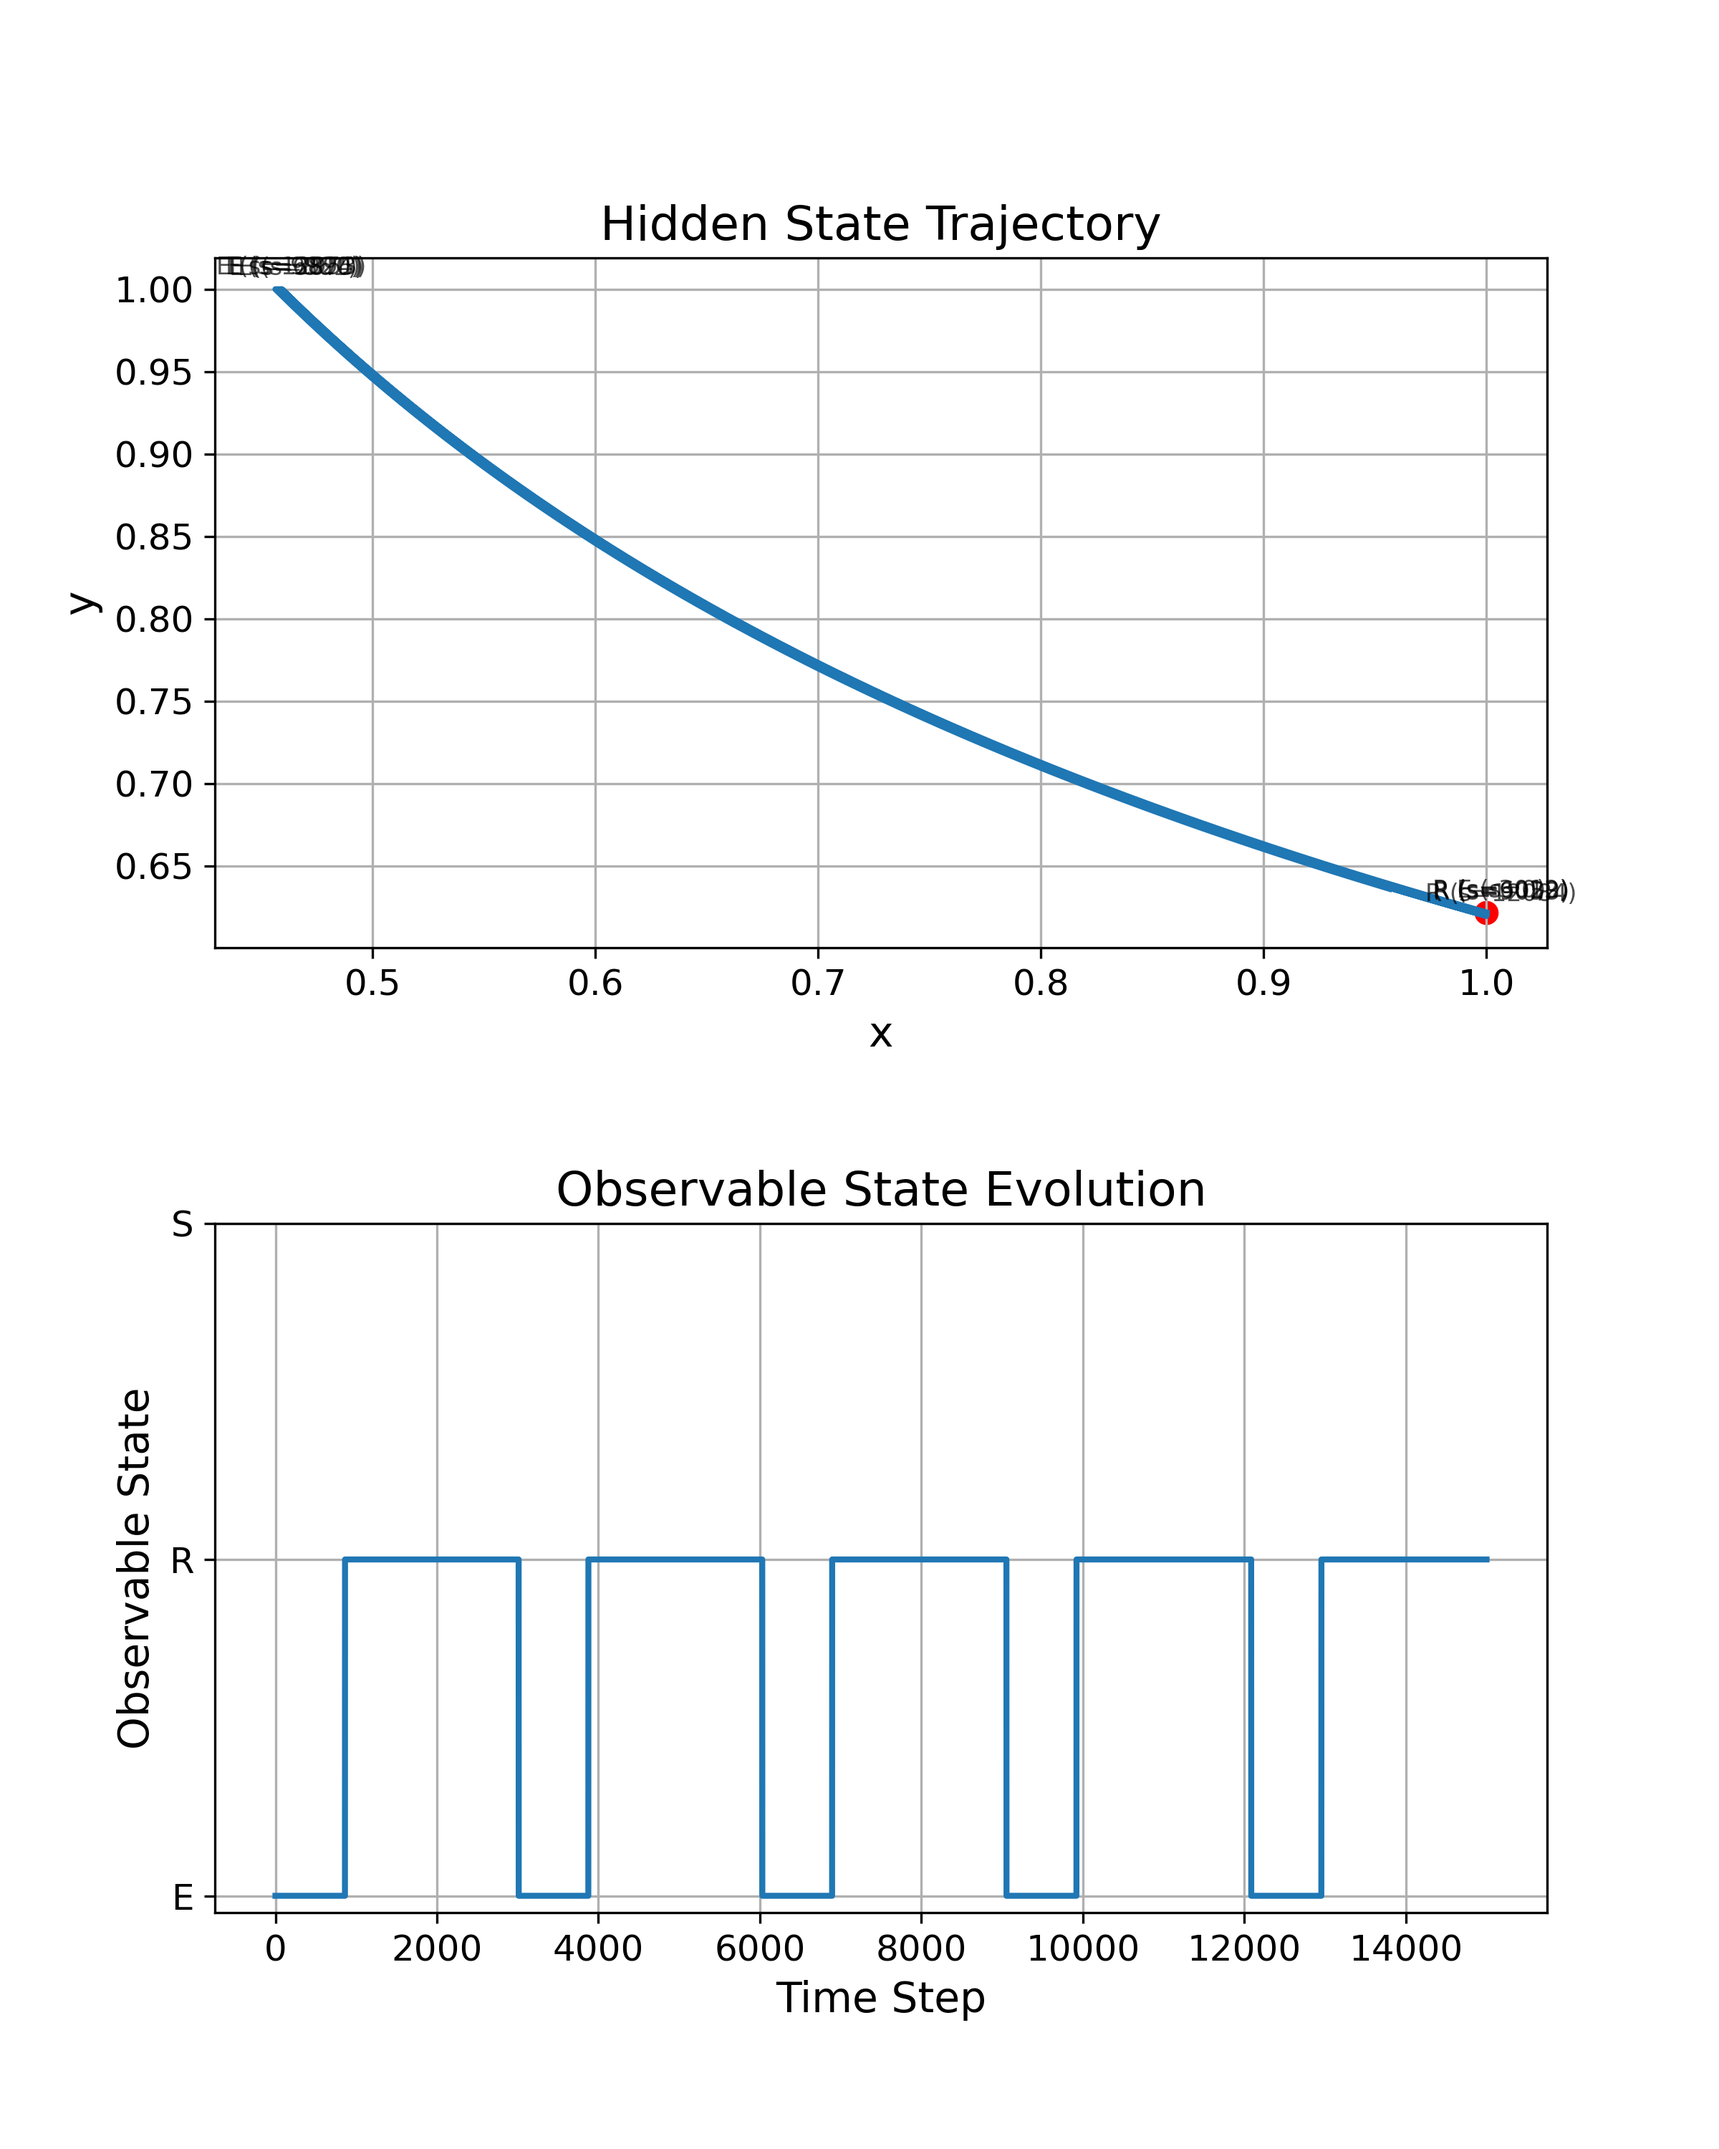
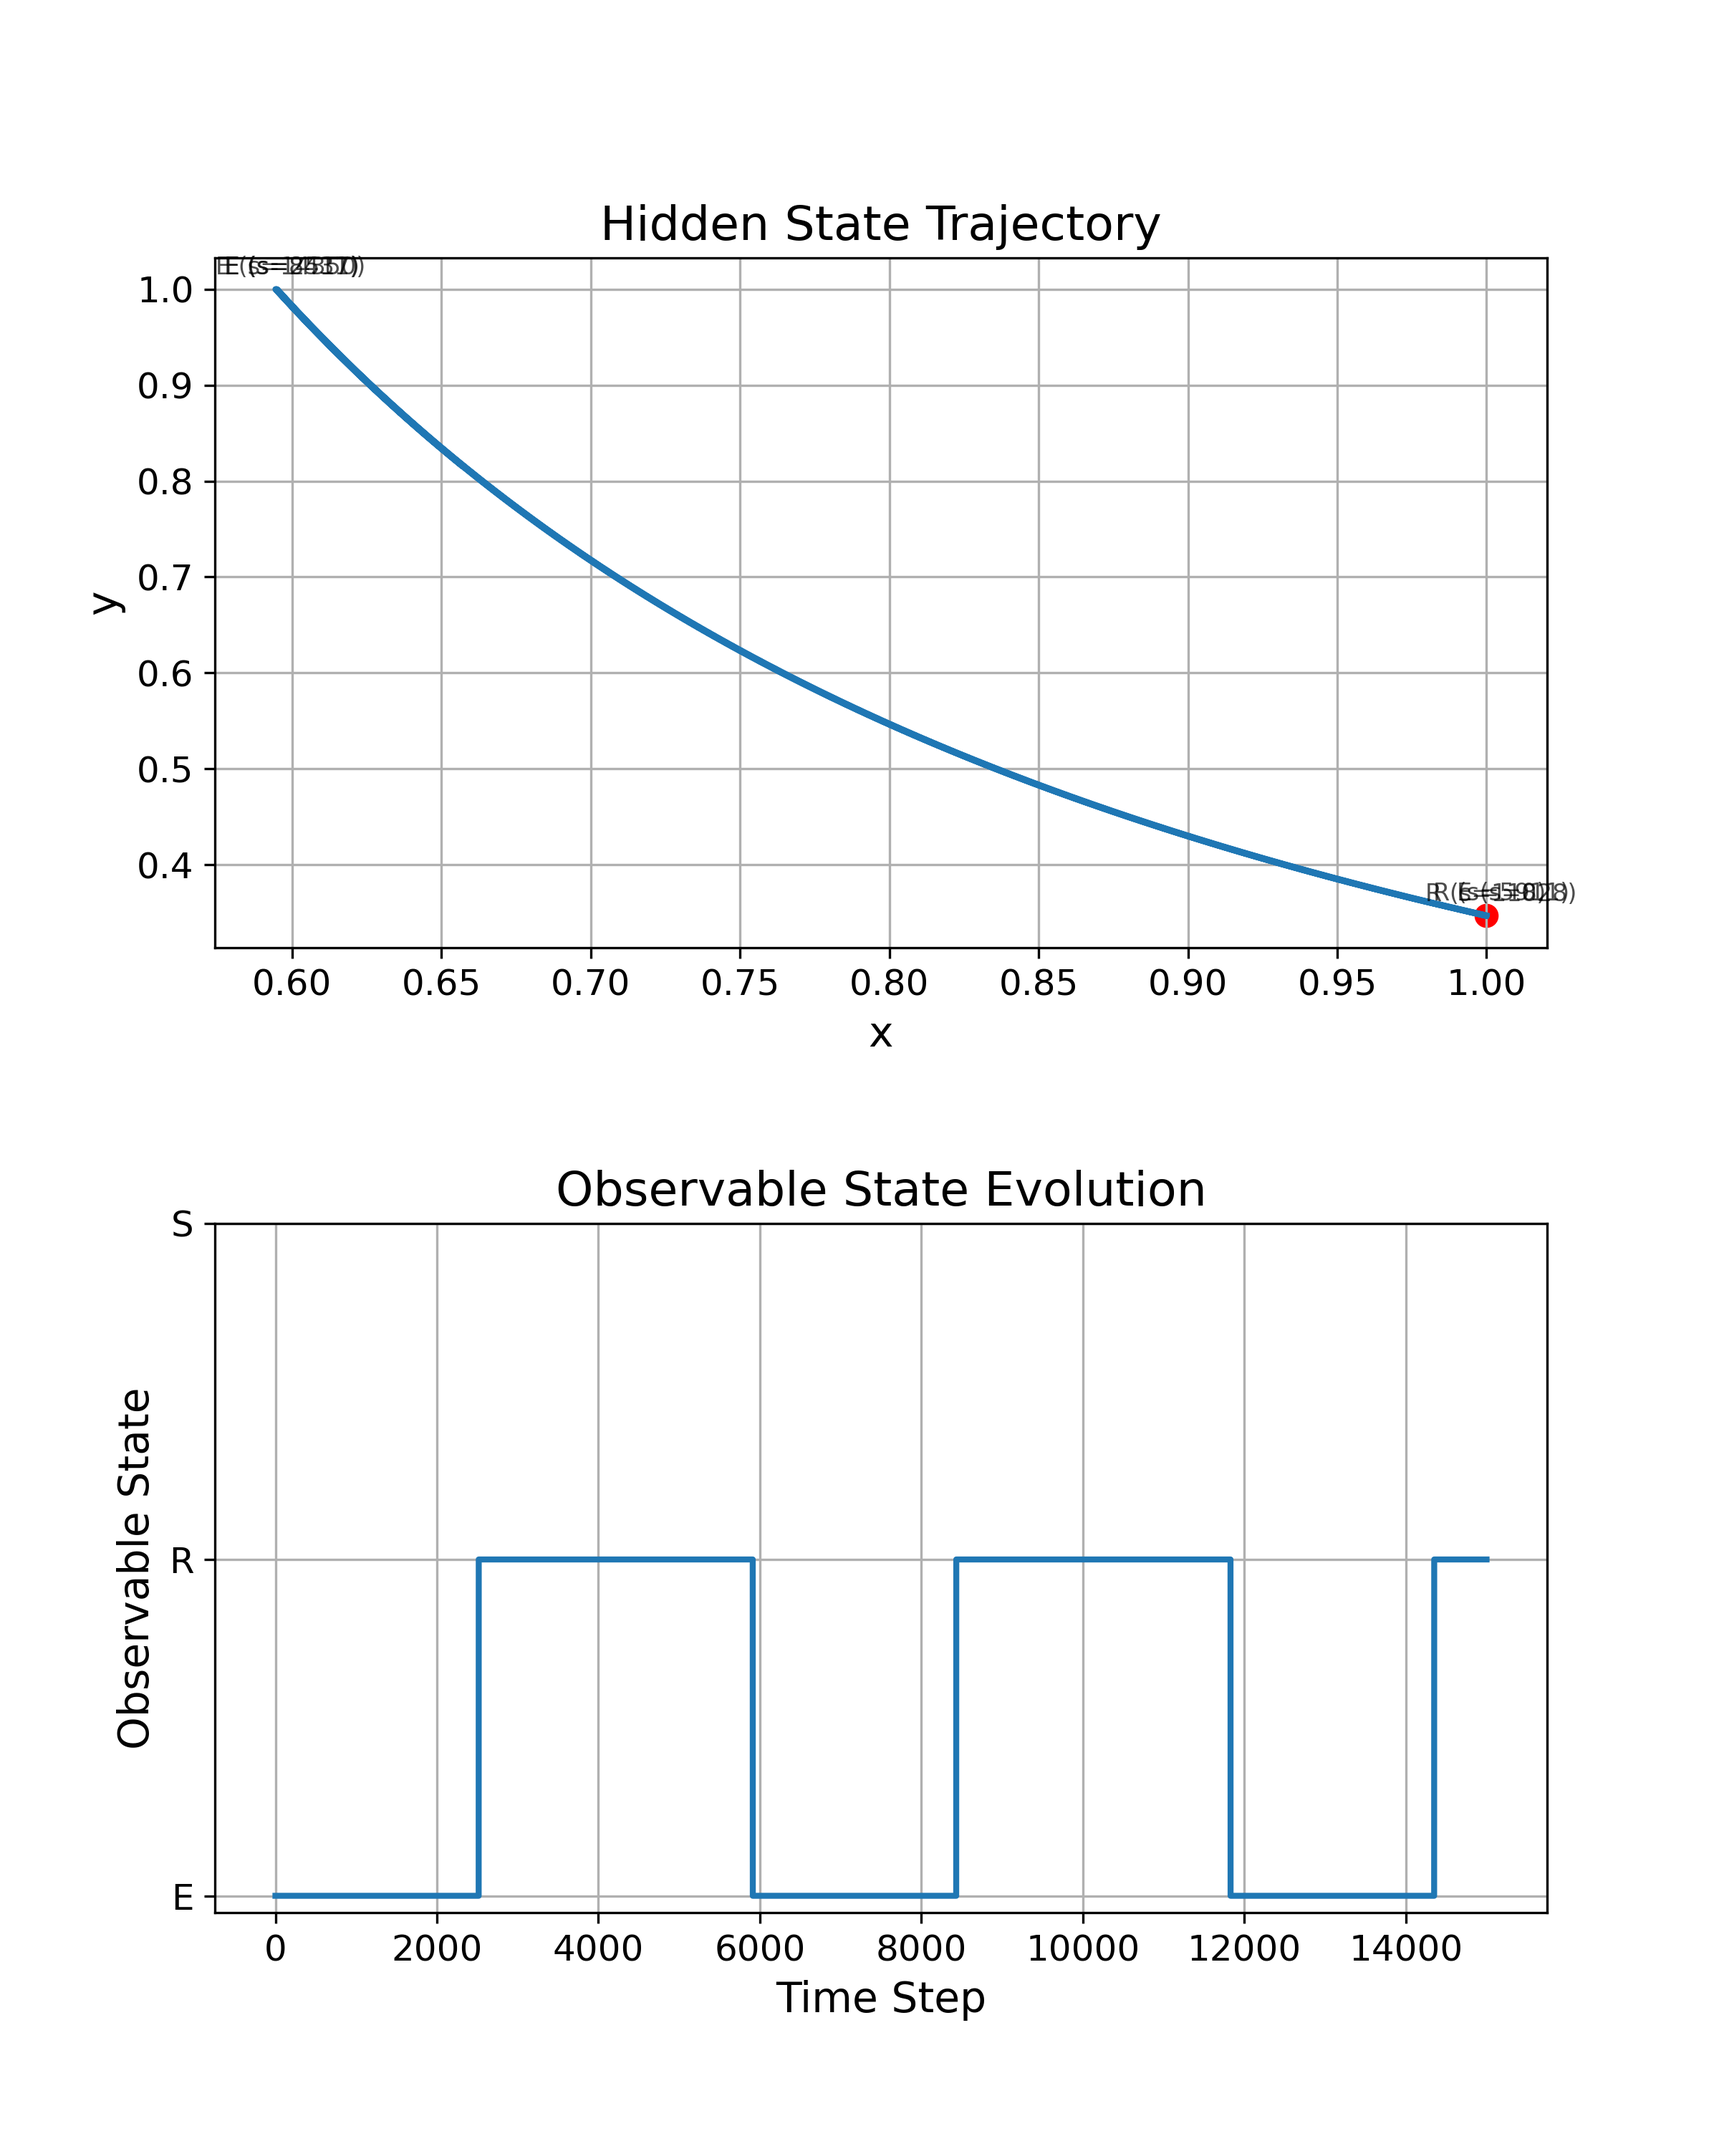
changed params for 2-cow simulation to mathch paper

diff --git a/main.py b/main.py
@@ -204,9 +204,9 @@ def simulate_periodic_orbit_D():
 
 def simulate_two_cows(timesteps=10000, stepsize=0.01, sigma_x=0.05, sigma_y=0.05):
     # Create two cows with nearly identical parameters
-    epsilon = 0.002
-    cow1 = Cow(params=(0.04 + epsilon, 0.07 + epsilon, 0.03 + epsilon, 0.08 + epsilon), init_obsstate="E")
-    cow2 = Cow(params=(0.04 - epsilon, 0.07 - epsilon, 0.03 - epsilon, 0.08 - epsilon), init_obsstate="E")
+    epsilon = 0.001
+    cow1 = Cow(params=(0.05 + epsilon, 0.1 + epsilon, 0.05 + epsilon, 0.125 + epsilon), init_obsstate="E", delta=0.25)
+    cow2 = Cow(params=(0.05 - epsilon, 0.1 - epsilon, 0.05 - epsilon, 0.125 - epsilon), init_obsstate="E", delta=0.25)
 
     # Fully connected adjacency matrix
     adjacency = np.array([
@@ -244,9 +244,9 @@ def plot_observable_states(states_1, states_2):
 
 if __name__ == "__main__":
     # simulate_one_cow()
-    simulate_periodic_orbit_A()
-    simulate_periodic_orbit_B()
-    simulate_periodic_orbit_C()
-    simulate_periodic_orbit_D()
+    # simulate_periodic_orbit_A()
+    # simulate_periodic_orbit_B()
+    # simulate_periodic_orbit_C()
+    # simulate_periodic_orbit_D()
     states_1, states_2 = simulate_two_cows()
     plot_observable_states(states_1, states_2)
